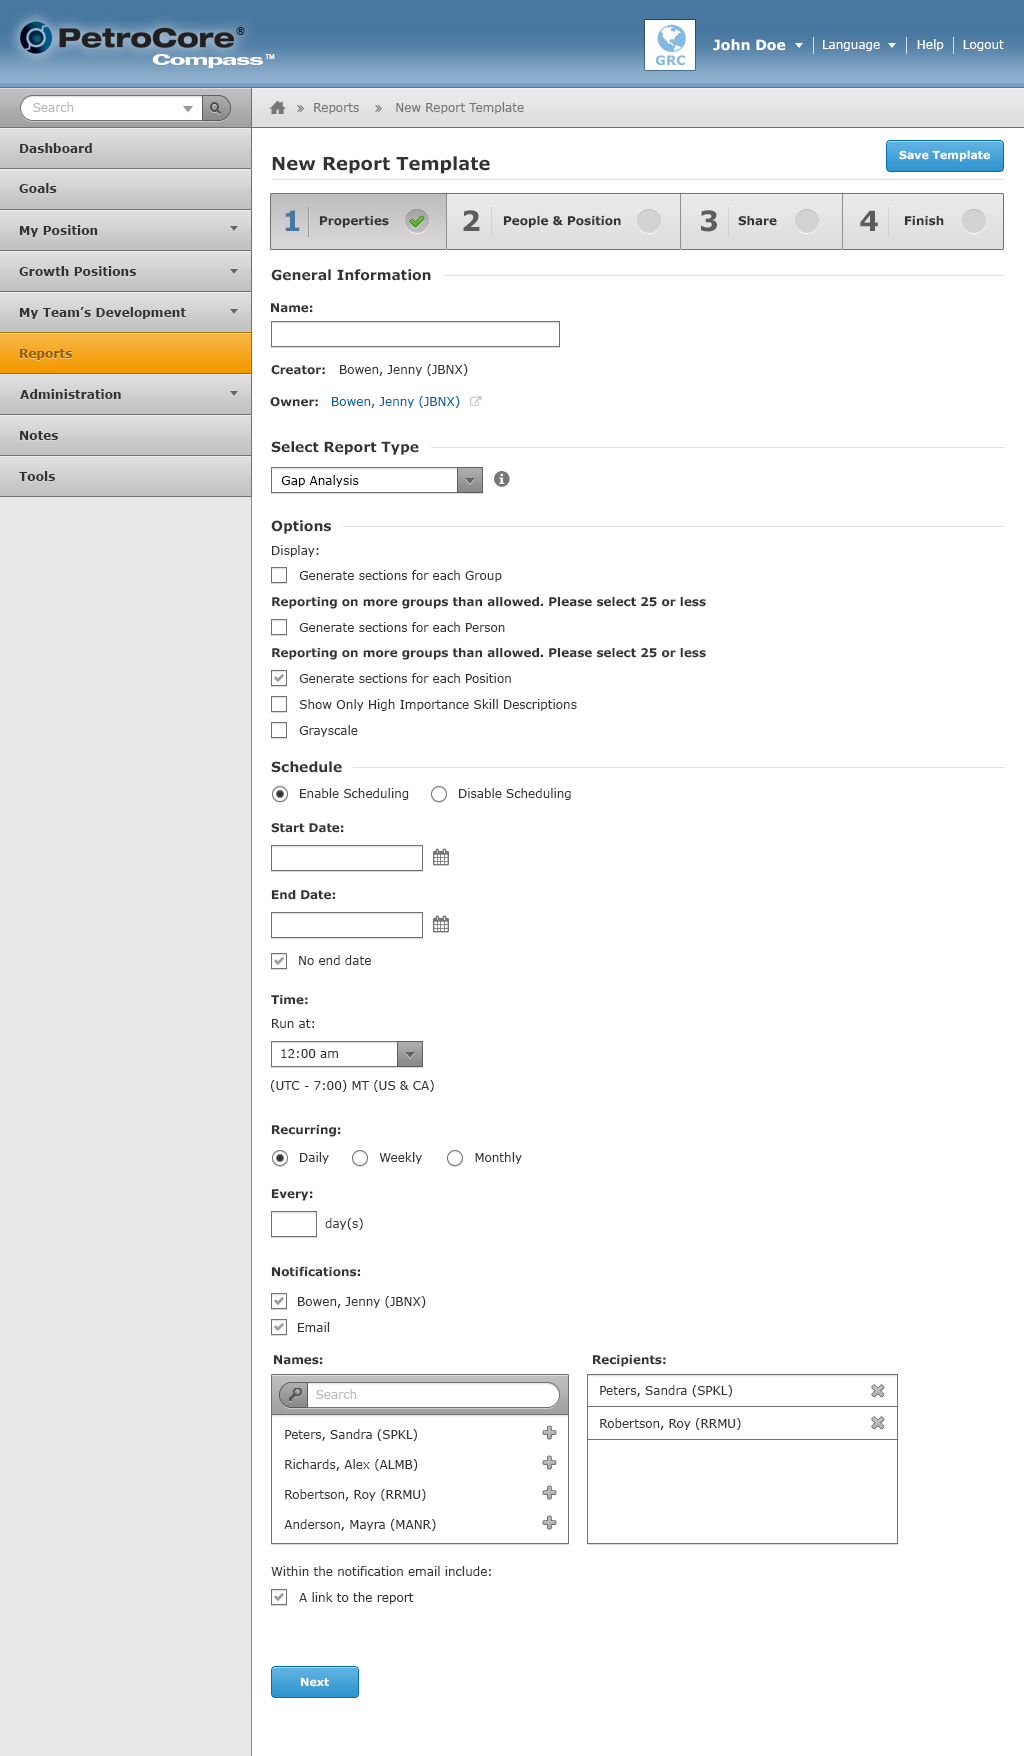
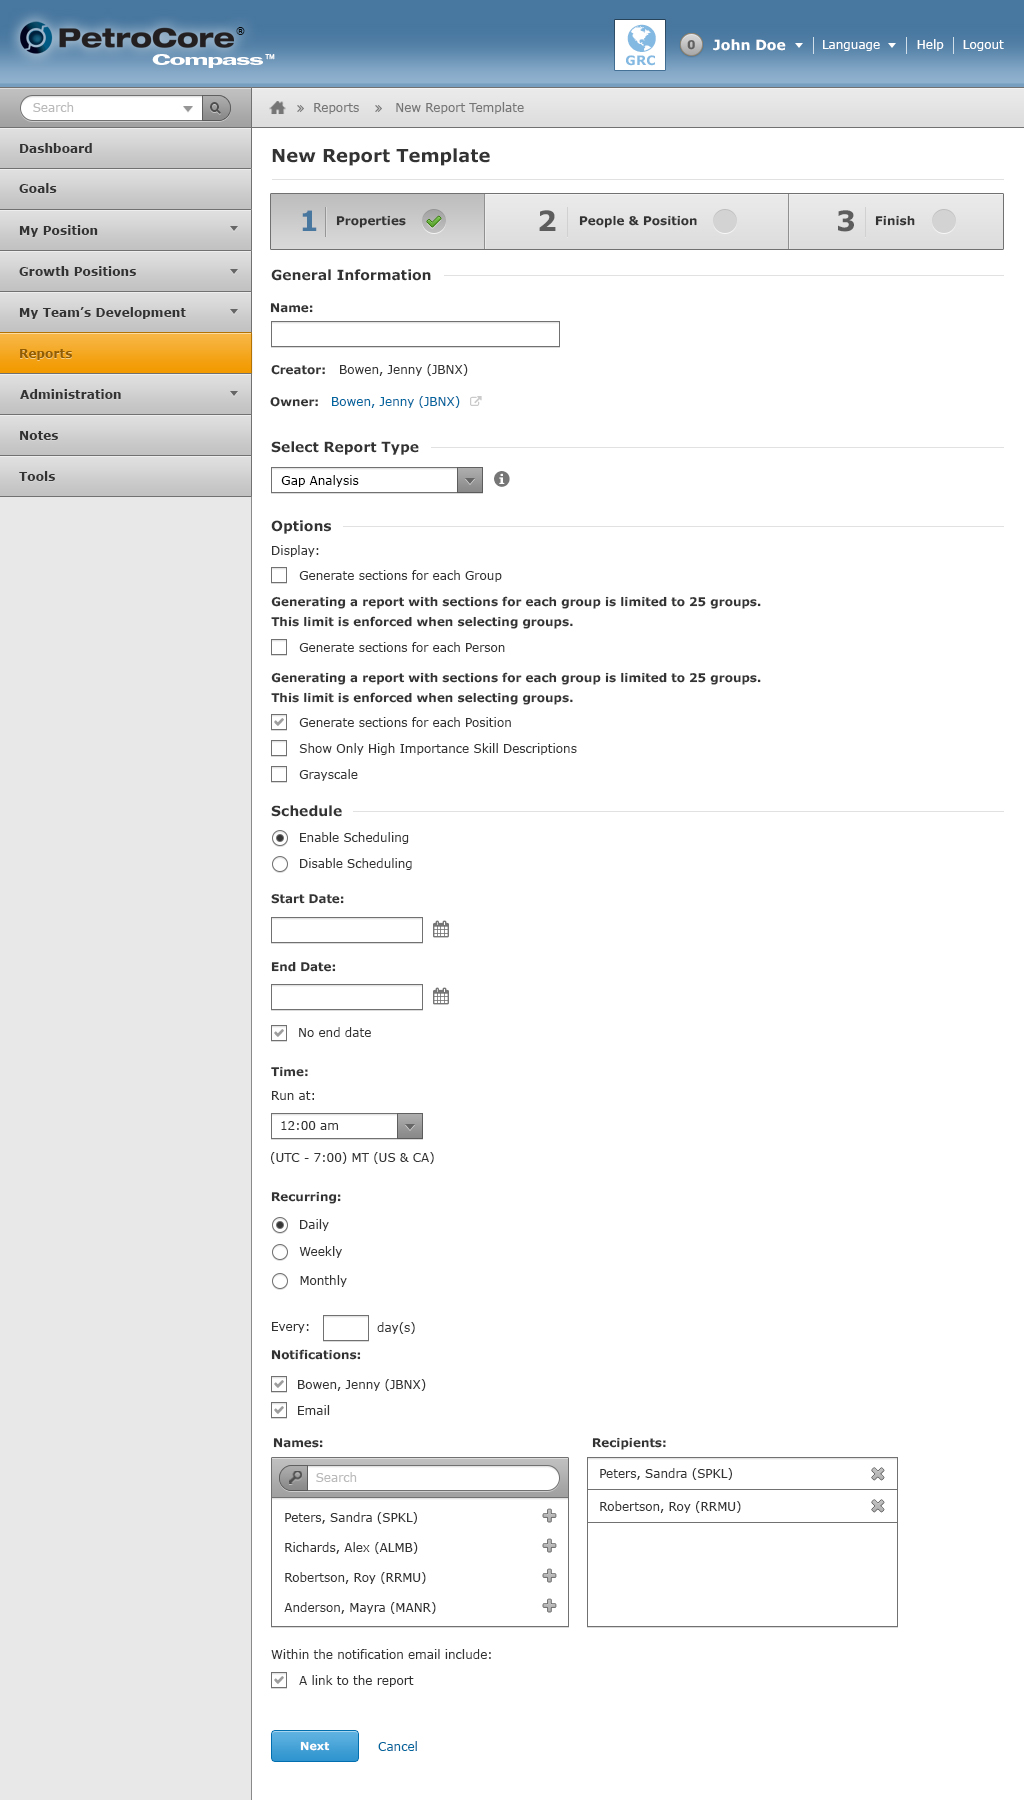
Update Reports section screenshots with new buttons, header notifications, general revisions. Update Add Activity and History screenshots.

Changed region(s): [[0.0, 0.0, 1.0, 0.9841], [0.5938, 0.0, 0.6875, 0.0615]]

diff --git a/reports.html b/reports.html
@@ -125,14 +125,14 @@
           
           <br><br>
 
-          <h4>Step 3</h4>
+          <!--<h4>Step 3</h4>
           <img src="images/new-report-step3.jpg" alt="New Report Step 3" style="border: 1px solid #717171;"><br><br>
           <p>In Step 3, a user can control who has access to the report template. They can define to either Positions, Groups or both.</p>
-          <br><br>
+          <br><br>-->
 
-          <h4>Step 4</h4>
-          <img src="images/new-report-step4.jpg" alt="New Report Step 4" style="border: 1px solid #717171;"><br><br>
-          <p>In Step 4, the user can finish creating the new report template by clicking on the Finish button. They also have the option to have the reports generated on save.</p>
+          <h4>Step 3</h4>
+          <img src="images/new-report-step3.jpg" alt="New Report Step 4" style="border: 1px solid #717171;"><br><br>
+          <p>In Step 3, the user can finish creating the new report template by clicking on the Finish button. They also have the option to have the reports generated on save.</p>
           <hr>
 
           <h3>Edit Report Template</h3>
